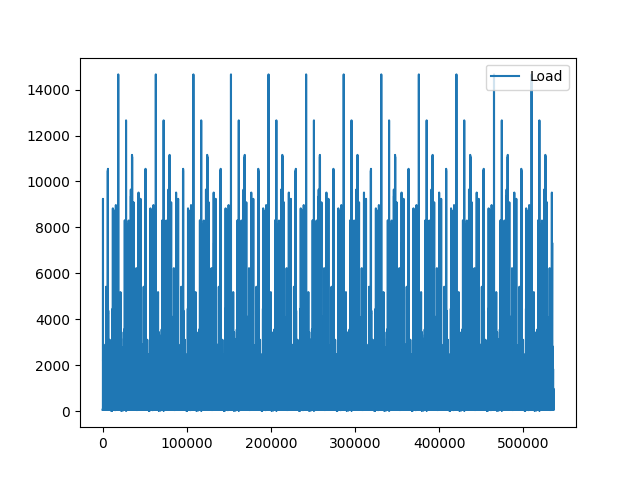
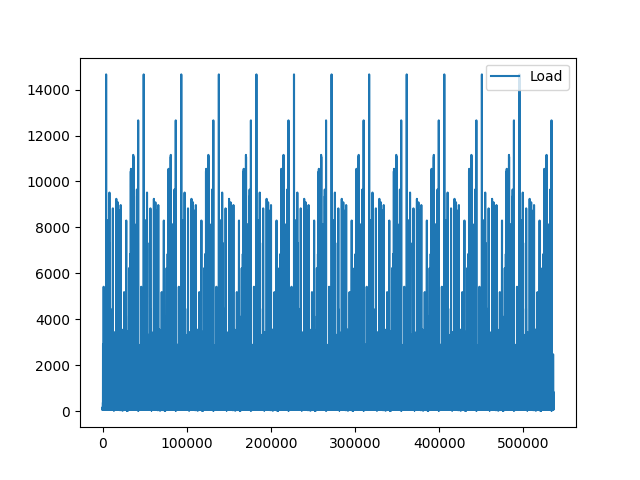
added jupyter notebook file

Changed region(s): [[0.1562, 0.1562, 0.875, 0.7188]]

diff --git a/data/network_data/bwfw_sweep.py b/data/network_data/bwfw_sweep.py
@@ -13,7 +13,7 @@ phases = 3
 PF = 0.95
 slackBus = 0
 
-with open('data/network_data/network/LineCodes.csv', newline='') as linecodefile, open('data/network_data/network/Lines.csv', newline='') as linesfile, open('data/network_data/network/Loads.csv') as loadsfile, open('data/network_data/network/Load_Profile_1.csv') as profilefile, open('data/network_data/network/Buscoords.csv') as busfile:
+with open('data/network_data/network/LineCodes.csv', newline='') as linecodefile, open('data/network_data/network/Lines.csv', newline='') as linesfile, open('data/network_data/network/Loads.csv') as loadsfile, open('data/network_data/network/Load_profile_1.csv') as profilefile, open('data/network_data/network/Buscoords.csv') as busfile:
     lines_code = np.array(list(csv.reader(linecodefile)), dtype=object)
     lines_data = np.array(list(csv.reader(linesfile)), dtype=object)
     loads_data = np.array(list(csv.reader(loadsfile)), dtype=object)
@@ -179,7 +179,7 @@ def f_b_sweep(Pi, Qi, calcLineCurrents, calcNodeVoltages, Tload, backOrderedNode
         calcLineCurrents[:,:,i] = lineCurrents[:,:,iter].astype(complex)
         calcNodeVoltages[:,:,i] = nodeVoltages[:,:,iter].astype(complex)
         Tload[i,:] = calcNodeVoltages[1,:,i]*calcLineCurrents[1,:,i]
-        print(Tload[i,:])
+        # print(Tload[i,:])
     return Tload, calcNodeVoltages, calcLineCurrents
 
 def plot_network():
